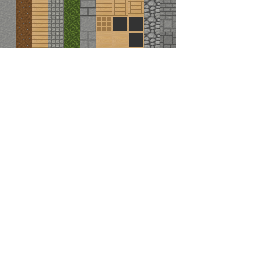
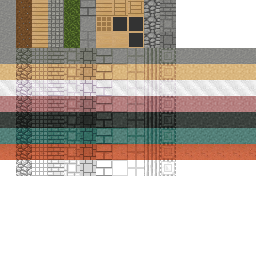
add lots of materials
Seven types of stone: limestone, sandstone, marble, granite, basalt,
slate, and fired clay; each of which has variants: plain, cobble, large
brick, small brick, tile, column, and block.

diff --git a/src/vertex_buffer.c b/src/vertex_buffer.c
@@ -4,23 +4,69 @@
 #include <assert.h>
 #include <stdlib.h>
 
+#include "types.h"
+
 #define T_COL 1.
 #define X_COL .8
 #define Z_COL .6
 #define B_COL .4
 
 const struct v2f texcoord_from_mat[][3] = {
-	{ { 0 / 16., 0 / 16. }, { 0 / 16., 1 / 16. }, { 0 / 16., 2 / 16. } },
-	{ { 1 / 16., 0 / 16. }, { 1 / 16., 1 / 16. }, { 1 / 16., 2 / 16. } },
-	{ { 2 / 16., 0 / 16. }, { 2 / 16., 1 / 16. }, { 2 / 16., 2 / 16. } },
-	{ { 3 / 16., 0 / 16. }, { 3 / 16., 1 / 16. }, { 3 / 16., 2 / 16. } },
-	{ { 4 / 16., 0 / 16. }, { 4 / 16., 1 / 16. }, { 4 / 16., 2 / 16. } },
-	{ { 5 / 16., 0 / 16. }, { 5 / 16., 1 / 16. }, { 5 / 16., 2 / 16. } },
-	{ { 6 / 16., 0 / 16. }, { 6 / 16., 1 / 16. }, { 6 / 16., 2 / 16. } },
-	{ { 7 / 16., 0 / 16. }, { 7 / 16., 1 / 16. }, { 7 / 16., 2 / 16. } },
-	{ { 8 / 16., 0 / 16. }, { 8 / 16., 1 / 16. }, { 8 / 16., 2 / 16. } },
-	{ { 9 / 16., 0 / 16. }, { 9 / 16., 1 / 16. }, { 9 / 16., 2 / 16. } },
-	{ { 10 / 16., 0 / 16. }, { 10 / 16., 1 / 16. }, { 10 / 16., 2 / 16. } },
+	[MAT_DIRT] = { { 1 / 16., 0 / 16. }, { 1 / 16., 1 / 16. }, { 1 / 16., 2 / 16. } },
+	[MAT_WOOD] = { { 2 / 16., 0 / 16. }, { 2 / 16., 1 / 16. }, { 2 / 16., 2 / 16. } },
+	[MAT_GRASS] = { { 4 / 16., 0 / 16. }, { 4 / 16., 1 / 16. }, { 4 / 16., 2 / 16. } },
+	[MAT_WORKBENCH] = { { 6 / 16., 0 / 16. }, { 6 / 16., 1 / 16. }, { 6 / 16., 2 / 16. } },
+	[MAT_CRATE] = { { 7 / 16., 0 / 16. }, { 7 / 16., 1 / 16. }, { 7 / 16., 2 / 16. } },
+	[MAT_PIPE] = { { 8 / 16., 0 / 16. }, { 8 / 16., 1 / 16. }, { 8 / 16., 2 / 16. } },
+	[MAT_LIMESTONE] = { { 0 / 16., 3 / 16. }, { 0 / 16., 3 / 16. }, { 0 / 16., 3 / 16. } },
+	[MAT_LIMESTONE_COBBLE] = { { 1 / 16., 3 / 16. }, { 1 / 16., 3 / 16. }, { 1 / 16., 3 / 16. } },
+	[MAT_LIMESTONE_LBRICK] = { { 6 / 16., 3 / 16. }, { 7 / 16., 3 / 16. }, { 8 / 16., 3 / 16. } },
+	[MAT_LIMESTONE_SBRICK] = { { 3 / 16., 3 / 16. }, { 4 / 16., 3 / 16. }, { 5 / 16., 3 / 16. } },
+	[MAT_LIMESTONE_TILE] = { { 2 / 16., 3 / 16. }, { 2 / 16., 3 / 16. }, { 2 / 16., 3 / 16. } },
+	[MAT_LIMESTONE_COLUMN] = { { 9 / 16., 3 / 16. }, { 10 / 16., 3 / 16. }, { 10 / 16., 3 / 16. } },
+	[MAT_LIMESTONE_BLOCK] = { { 7 / 16., 3 / 16. }, { 7 / 16., 3 / 16. }, { 7 / 16., 3 / 16. } },
+	[MAT_SANDSTONE] = { { 0 / 16., 4 / 16. }, { 0 / 16., 4 / 16. }, { 0 / 16., 4 / 16. } },
+	[MAT_SANDSTONE_COBBLE] = { { 1 / 16., 4 / 16. }, { 1 / 16., 4 / 16. }, { 1 / 16., 4 / 16. } },
+	[MAT_SANDSTONE_LBRICK] = { { 6 / 16., 4 / 16. }, { 7 / 16., 4 / 16. }, { 8 / 16., 4 / 16. } },
+	[MAT_SANDSTONE_SBRICK] = { { 3 / 16., 4 / 16. }, { 4 / 16., 4 / 16. }, { 5 / 16., 4 / 16. } },
+	[MAT_SANDSTONE_TILE] = { { 2 / 16., 4 / 16. }, { 2 / 16., 4 / 16. }, { 2 / 16., 4 / 16. } },
+	[MAT_SANDSTONE_COLUMN] = { { 9 / 16., 4 / 16. }, { 10 / 16., 4 / 16. }, { 10 / 16., 4 / 16. } },
+	[MAT_SANDSTONE_BLOCK] = { { 7 / 16., 4 / 16. }, { 7 / 16., 4 / 16. }, { 7 / 16., 4 / 16. } },
+	[MAT_MARBLE] = { { 0 / 16., 5 / 16. }, { 0 / 16., 5 / 16. }, { 0 / 16., 5 / 16. } },
+	[MAT_MARBLE_COBBLE] = { { 1 / 16., 5 / 16. }, { 1 / 16., 5 / 16. }, { 1 / 16., 5 / 16. } },
+	[MAT_MARBLE_LBRICK] = { { 6 / 16., 5 / 16. }, { 7 / 16., 5 / 16. }, { 8 / 16., 5 / 16. } },
+	[MAT_MARBLE_SBRICK] = { { 3 / 16., 5 / 16. }, { 4 / 16., 5 / 16. }, { 5 / 16., 5 / 16. } },
+	[MAT_MARBLE_TILE] = { { 2 / 16., 5 / 16. }, { 2 / 16., 5 / 16. }, { 2 / 16., 5 / 16. } },
+	[MAT_MARBLE_COLUMN] = { { 9 / 16., 5 / 16. }, { 10 / 16., 5 / 16. }, { 10 / 16., 5 / 16. } },
+	[MAT_MARBLE_BLOCK] = { { 7 / 16., 5 / 16. }, { 7 / 16., 5 / 16. }, { 7 / 16., 5 / 16. } },
+	[MAT_GRANITE] = { { 0 / 16., 6 / 16. }, { 0 / 16., 6 / 16. }, { 0 / 16., 6 / 16. } },
+	[MAT_GRANITE_COBBLE] = { { 1 / 16., 6 / 16. }, { 1 / 16., 6 / 16. }, { 1 / 16., 6 / 16. } },
+	[MAT_GRANITE_LBRICK] = { { 6 / 16., 6 / 16. }, { 7 / 16., 6 / 16. }, { 8 / 16., 6 / 16. } },
+	[MAT_GRANITE_SBRICK] = { { 3 / 16., 6 / 16. }, { 4 / 16., 6 / 16. }, { 5 / 16., 6 / 16. } },
+	[MAT_GRANITE_TILE] = { { 2 / 16., 6 / 16. }, { 2 / 16., 6 / 16. }, { 2 / 16., 6 / 16. } },
+	[MAT_GRANITE_COLUMN] = { { 9 / 16., 6 / 16. }, { 10 / 16., 6 / 16. }, { 10 / 16., 6 / 16. } },
+	[MAT_GRANITE_BLOCK] = { { 7 / 16., 6 / 16. }, { 7 / 16., 6 / 16. }, { 7 / 16., 6 / 16. } },
+	[MAT_BASALT] = { { 0 / 16., 7 / 16. }, { 0 / 16., 7 / 16. }, { 0 / 16., 7 / 16. } },
+	[MAT_BASALT_COBBLE] = { { 1 / 16., 7 / 16. }, { 1 / 16., 7 / 16. }, { 1 / 16., 7 / 16. } },
+	[MAT_BASALT_LBRICK] = { { 6 / 16., 7 / 16. }, { 7 / 16., 7 / 16. }, { 8 / 16., 7 / 16. } },
+	[MAT_BASALT_SBRICK] = { { 3 / 16., 7 / 16. }, { 4 / 16., 7 / 16. }, { 5 / 16., 7 / 16. } },
+	[MAT_BASALT_TILE] = { { 2 / 16., 7 / 16. }, { 2 / 16., 7 / 16. }, { 2 / 16., 7 / 16. } },
+	[MAT_BASALT_COLUMN] = { { 9 / 16., 7 / 16. }, { 10 / 16., 7 / 16. }, { 10 / 16., 7 / 16. } },
+	[MAT_BASALT_BLOCK] = { { 7 / 16., 7 / 16. }, { 7 / 16., 7 / 16. }, { 7 / 16., 7 / 16. } },
+	[MAT_SLATE] = { { 0 / 16., 8 / 16. }, { 0 / 16., 8 / 16. }, { 0 / 16., 8 / 16. } },
+	[MAT_SLATE_COBBLE] = { { 1 / 16., 8 / 16. }, { 1 / 16., 8 / 16. }, { 1 / 16., 8 / 16. } },
+	[MAT_SLATE_LBRICK] = { { 6 / 16., 8 / 16. }, { 7 / 16., 8 / 16. }, { 8 / 16., 8 / 16. } },
+	[MAT_SLATE_SBRICK] = { { 3 / 16., 8 / 16. }, { 4 / 16., 8 / 16. }, { 5 / 16., 8 / 16. } },
+	[MAT_SLATE_TILE] = { { 2 / 16., 8 / 16. }, { 2 / 16., 8 / 16. }, { 2 / 16., 8 / 16. } },
+	[MAT_SLATE_COLUMN] = { { 9 / 16., 8 / 16. }, { 10 / 16., 8 / 16. }, { 10 / 16., 8 / 16. } },
+	[MAT_SLATE_BLOCK] = { { 7 / 16., 8 / 16. }, { 7 / 16., 8 / 16. }, { 7 / 16., 8 / 16. } },
+	[MAT_CLAY] = { { 0 / 16., 9 / 16. }, { 0 / 16., 9 / 16. }, { 0 / 16., 9 / 16. } },
+	[MAT_CLAY_COBBLE] = { { 1 / 16., 9 / 16. }, { 1 / 16., 9 / 16. }, { 1 / 16., 9 / 16. } },
+	[MAT_CLAY_LBRICK] = { { 6 / 16., 9 / 16. }, { 7 / 16., 9 / 16. }, { 8 / 16., 9 / 16. } },
+	[MAT_CLAY_SBRICK] = { { 3 / 16., 9 / 16. }, { 4 / 16., 9 / 16. }, { 5 / 16., 9 / 16. } },
+	[MAT_CLAY_TILE] = { { 2 / 16., 9 / 16. }, { 2 / 16., 9 / 16. }, { 2 / 16., 9 / 16. } },
+	[MAT_CLAY_COLUMN] = { { 9 / 16., 9 / 16. }, { 10 / 16., 9 / 16. }, { 10 / 16., 9 / 16. } },
+	[MAT_CLAY_BLOCK] = { { 7 / 16., 9 / 16. }, { 7 / 16., 9 / 16. }, { 7 / 16., 9 / 16. } },
 };
 
 struct vertex_desc vertices_face_dn[] = {

diff --git a/src/types.h b/src/types.h
@@ -15,14 +15,58 @@ enum {
 	MAT_LIMESTONE,
 	MAT_DIRT,
 	MAT_WOOD,
-	MAT_TILE,
+	MAT_LIMESTONE_TILE,
 	MAT_GRASS,
-	MAT_STONEBRICK,
+	MAT_LIMESTONE_LBRICK,
 	MAT_WORKBENCH,
 	MAT_CRATE,
 	MAT_PIPE,
-	MAT_COBBLE,
-	MAT_BRICK,
+	MAT_LIMESTONE_COBBLE,
+	MAT_LIMESTONE_SBRICK,
+	MAT_LIMESTONE_COLUMN,
+	MAT_LIMESTONE_BLOCK,
+	MAT_SANDSTONE,
+	MAT_SANDSTONE_COBBLE,
+	MAT_SANDSTONE_LBRICK,
+	MAT_SANDSTONE_SBRICK,
+	MAT_SANDSTONE_TILE,
+	MAT_SANDSTONE_COLUMN,
+	MAT_SANDSTONE_BLOCK,
+	MAT_MARBLE,
+	MAT_MARBLE_COBBLE,
+	MAT_MARBLE_LBRICK,
+	MAT_MARBLE_SBRICK,
+	MAT_MARBLE_TILE,
+	MAT_MARBLE_COLUMN,
+	MAT_MARBLE_BLOCK,
+	MAT_GRANITE,
+	MAT_GRANITE_COBBLE,
+	MAT_GRANITE_LBRICK,
+	MAT_GRANITE_SBRICK,
+	MAT_GRANITE_TILE,
+	MAT_GRANITE_COLUMN,
+	MAT_GRANITE_BLOCK,
+	MAT_BASALT,
+	MAT_BASALT_COBBLE,
+	MAT_BASALT_LBRICK,
+	MAT_BASALT_SBRICK,
+	MAT_BASALT_TILE,
+	MAT_BASALT_COLUMN,
+	MAT_BASALT_BLOCK,
+	MAT_SLATE,
+	MAT_SLATE_COBBLE,
+	MAT_SLATE_LBRICK,
+	MAT_SLATE_SBRICK,
+	MAT_SLATE_TILE,
+	MAT_SLATE_COLUMN,
+	MAT_SLATE_BLOCK,
+	MAT_CLAY,
+	MAT_CLAY_COBBLE,
+	MAT_CLAY_LBRICK,
+	MAT_CLAY_SBRICK,
+	MAT_CLAY_TILE,
+	MAT_CLAY_COLUMN,
+	MAT_CLAY_BLOCK,
 	MAT_COUNT,
 };
 
